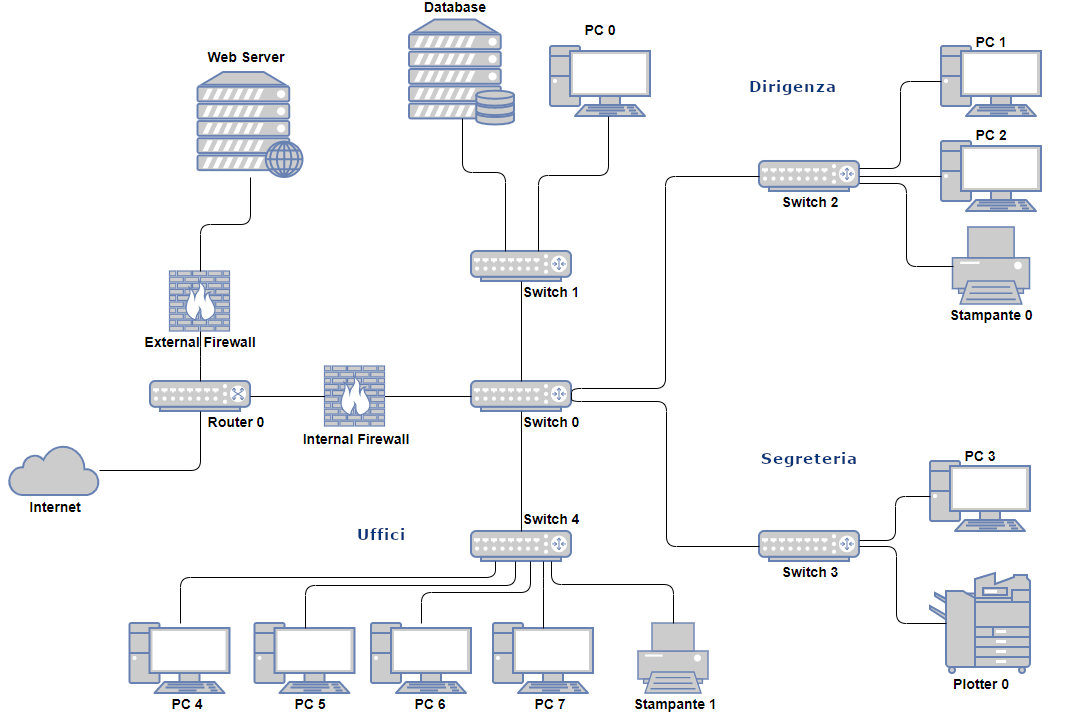
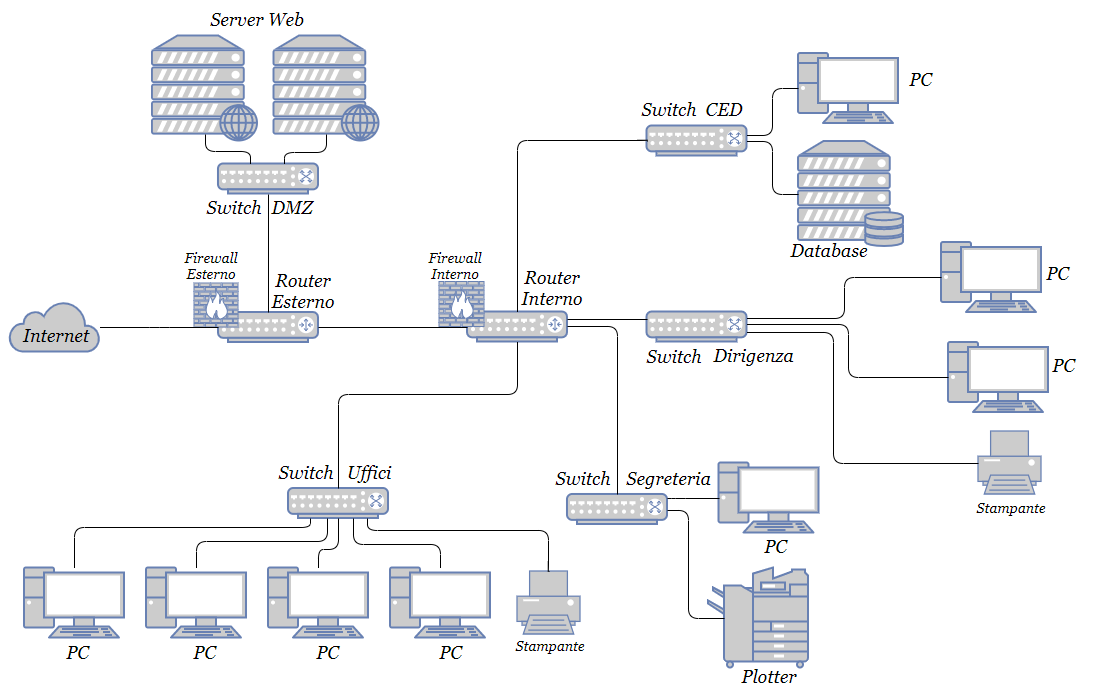
fixup! Aggiornate docs e README, aggiunti commenti in funzioni.php

diff --git a/docs/index.md b/docs/index.md
@@ -3,7 +3,7 @@
 # 1. Il progetto
 Creare un sito web per la gestione di un medagliere delle olimpiadi.
 
-L'ambito del progetto potrebbe essere quello di un'azienda che gestisce le statistiche dei vincitori delle olimpiadi (solamente chi rientra nel podio) e magari di fornire, attraverso delle `API`, i dati a terzi parti.
+L'ambito del progetto potrebbe essere quello di un'azienda che gestisce le statistiche dei vincitori delle olimpiadi ( solamente chi rientra nel podio ) e magari di fornire, attraverso delle `API`, i dati a terzi parti.
 
 ## 1.1. Schema Entity Relationships (E/R)
 
@@ -19,9 +19,9 @@ La relazione che si crea tra `nazioni e discipline è N a N` ( ad una nazione co
 
 ## 1.3. Vincoli
 Dallo schema logico possiamo vedere alcuni `vincoli di integrità referenziale` ( FK ) quali:
-* Nazioni -> Medaglie
-* Discipline -> Medaglie
-* Sports -> Discipline
+- Nazioni -> Medaglie;
+- Discipline -> Medaglie;
+- Sports -> Discipline.
 
 Questi permettono di assicurare la `consistenza` dei dati all'interno del database, non permettendo, ad esempio, l'eliminazione di un dato che è collegato (attravereso le chiavi primarie - esterne) ad un'altra tabella. (es. Non posso eliminare uno sport se questo ha delle discipline a lui collegate).
 
@@ -30,20 +30,20 @@ Inoltre vi si trova un `vincolo di dominio` nel campo `medaglia` della tabella `
 L'univocità di ogni record è possibile grazie alle `chiavi primarie` presenti in ogni tabella ( PK ). Non è presente il controllo sui valori immessi durante l'inserimento e la modifica, per tanto bisogna fare attenzione durante queste due fasi.
 
 ## 1.4. I Linguaggi
-Ho scelto `PHP` (Personal Home Page inizialmente, poi modificato in Hypertext Preprocessor), un linguaggio di scripting lato server interpretato, in quanto molto semplice ed adatto per lo sviluppo dell'intero progetto. 
+Ho scelto `PHP` ( Personal Home Page inizialmente, poi modificato in Hypertext Preprocessor ), un linguaggio di scripting lato server interpretato, in quanto molto semplice ed adatto per lo sviluppo dell'intero progetto. 
 Avendo un alto grado di portabilità infatti, esso è perfetto per quasi qualsiasi piattaforma, sia quando si parla di sistemi operativi, sia quando si parla di web server.
 
-Inoltre sono presenti altri linguaggi come `CSS` (Cascading Style Sheets) e `JavaScript` (ECMA Script), entrambi utilizzati dal framework [Bootstrap](https://getbootstrap.com/), che è stato utile per realizzare l'interfaccia grafica.
+Inoltre sono presenti altri linguaggi come `CSS` ( Cascading Style Sheets ) e `JavaScript` ( ECMA Script ), entrambi utilizzati dal framework [Bootstrap](https://getbootstrap.com/), che è stato utile per realizzare l'interfaccia grafica.
 
-Per interfacciarmi con il database ho utilizzato il linguaggio `SQL` (Structured Query Language), inserendo le istruzioni in apposite funzioni offerte da PHP.
+Per interfacciarmi con il database ho utilizzato il linguaggio `SQL` ( Structured Query Language ), inserendo le istruzioni in apposite funzioni offerte da PHP.
 
 ## 1.5. DBMS (Data Base Management System)
 Per gestire la persistenza dei dati è stato utilizzato un `DBMS`, ossia un programma applicativo che si interpone tra l'applicazione e i file dove sono memorizzati i dati ( che si interfaccia con il file system ).
 
 I vantaggi sono molteplici: 
-* Eliminazione delle ridondanze ( dato che deriva dall'elaborazione di altri )
-* Eliminazione delle inconsistenze ( due valori che rappresentano la stessa informazione, assumono valori diversi )
-* Integrità dei dati ( vedi paragrafo `Vincoli` )
+- Eliminazione delle ridondanze ( dato che deriva dall'elaborazione di altri );
+- Eliminazione delle inconsistenze ( due valori che rappresentano la stessa informazione, assumono valori diversi );
+- Integrità dei dati ( vedi paragrafo `Vincoli` ).
 
 Il DBMS in questione è `MySQL`, o meglio un `RDBMS`, ossia un database relazionale, che ha come principio base quello di essere intuitivo e diretto nella rappresentazione dei dati nelle tabelle, rendendo facile stabilire anche le relazioni.
 
@@ -86,27 +86,44 @@ Nello script di inizializzazione del database, all'interno del codice, è stata 
 
 # 2. Requisiti
 Lo sviluppo dell'applicazione è stato effettuato attraverso il web server [XAMPP](https://www.apachefriends.org/it/index.html), versione `7.4.5`, che comprende al suo interno:
-* MariaDB `10.4.11` (fork di `MySQL` versione `5.6`);
-* PHP `7.4.5`;
+- MariaDB `10.4.11` ( fork di `MySQL` versione `5.6` );
+- PHP `7.4.5`.
 
 Il deploy dell'intero sito invece, è stato fatto su [Altervista](https://it.altervista.org), all'indirizzo  [rangomatteo.altervista.org](https://rangomatteo.altervista.org), server che contiene:
-* MySQL `5.6`;
-* PHP `7.3`;
+- MySQL `5.6`;
+- PHP `7.3`.
 
-Entrambe le versioni, sia per quanto riguarda `PHP`, sia per quanto riguarda `MySQL`/`MariaDB`, sono compatibili tra loro quindi, non c'è stato bisogno di effettuare modifiche nel passaggio dallo sviluppo al deploy. Il motore utilizzato è `InnoDB`, scelto per la caratteristica fondamentale di permettere la creazione delle `foreign keys`, che conferiscono la possibilità di creare una relazione logica tra due (o più) tabelle, in modo da rendere consistenti i dati (vedi sezione `vincoli`).
+Entrambe le versioni, sia per quanto riguarda `PHP`, sia per quanto riguarda `MySQL`/`MariaDB`, sono compatibili tra loro quindi, non c'è stato bisogno di effettuare modifiche nel passaggio dallo sviluppo al deploy. Il motore utilizzato è `InnoDB`, scelto per la caratteristica fondamentale di permettere la creazione delle `foreign keys`, che conferiscono la possibilità di creare una relazione logica tra due ( o più ) tabelle, in modo da rendere consistenti i dati ( vedi sezione `vincoli` ).
 
 Il caricamento dei file nel server di Altrvista è stato effettuato attraverso il protocollo `FTP` con il programma [FileZilla](https://filezilla-project.org/) per poi renderlo automatico grazie a Github (Github Actions).
 
-# 3. Schema della realtà di riferimento
+# 3. Rete della realtà di riferimento
 Si pensa di creare una rete interna per l'azienda, che offrirà i servizi agli utenti attraverso una rete di elaboratori. Di seguito la rappresentazione logica:
 
 ![Rete](./images/rete.png)
 
-# 3.1. Servizi verso l'esterno
-Come già citato in precedenza, si vuole offrire agli utenti una serie di servizi attraverso un web server, che sarà posto all'interno di una `DMZ` (DeMilitarized Zone), questo per rendere sicura la rete aziendale interna.
-In pratica si crea la cosidetta `zona cuscinetto`, una zona con traffico strettamente limitato e controllato, gestita attarverso il firewall più esterno.
+# 3.1. Connessioni e apparecchiatura di rete
+Il progetto richiede l'utilizzo di 5 switch e 2 router per collegare:
+- 8 PC;
+- 2 stampanti;
+- 1 plotter;
+- 3 server;
+
+suddivisi in diverse sale quali:
+- Sala CED ( Centro Elaborazinone Dati, 1° Piano );
+- Sala Segreteria ( 1° Piano );
+- Sala Dirigenza ( 2° Piano );
+- Uffici ( 2° Piano ). 
+
+Per tutte le connessione si propongono cavi `F/UTP`( Foiled Unshielded Twisted Pair ) `Cat.6`, solitamente usati per Fast Ethernet( 100 Mbps ) e 10-Gigabit Ethernet( 10000 Mbps ) di reti aziendali di piccole e medie dimensioni; essi sono infatti più performanti rispetto alle precedenti categorie ( grazie ad un separatore interno ed un rivestimento che avvolge le 8 coppie di doppini ).
+
+Data la semplicità della rete, non si prevede un server DHCP (Dynamic Host Configuration Protocol) e non si prevede una rete wireless all'interno degli uffici, questo per evitare accessi non autorizzati e/o sniffing indesiderato.
+
+# 3.2. Servizi verso l'esterno
+Come già citato in precedenza, si vuole offrire agli utenti una serie di servizi attraverso i web servers, che saranno posti all'interno di una `DMZ` ( DeMilitarized Zone ), questo per rendere sicura la rete aziendale interna.
+In pratica si crea la cosidetta `zona cuscinetto`, una zona con traffico strettamente limitato e controllato.
 Il database sarà posto invece all'interno della rete aziendale, questo perché solamente il web server dovrà accedervi direttamente, e lo farà tramite determinate regole dettate dal firewall interno.
 
-# 3.2. Data Center Interno
+# 3.3. Data Center
 Si preferisce in questo caso adottare una soluzione interna per numerosi motivi, primo tra tutti la rapidità con la quale è possibile agire fisicamente sulle macchine in caso di malfunzionamento. Fornendo API verso l'esterno infatti, è necessario che il down-time sia minimizzato.
 Per poter usufruire delle API poi, sarà necessario che l'utente si registri e di conseguenza si autentichi, pertanto si prevede l'immagazzinamento di dati sensibili. Avere i server interni quindi significherebbe avere sotto controllo tali dati e poter impliementare le proprie politiche di sicurezza.
